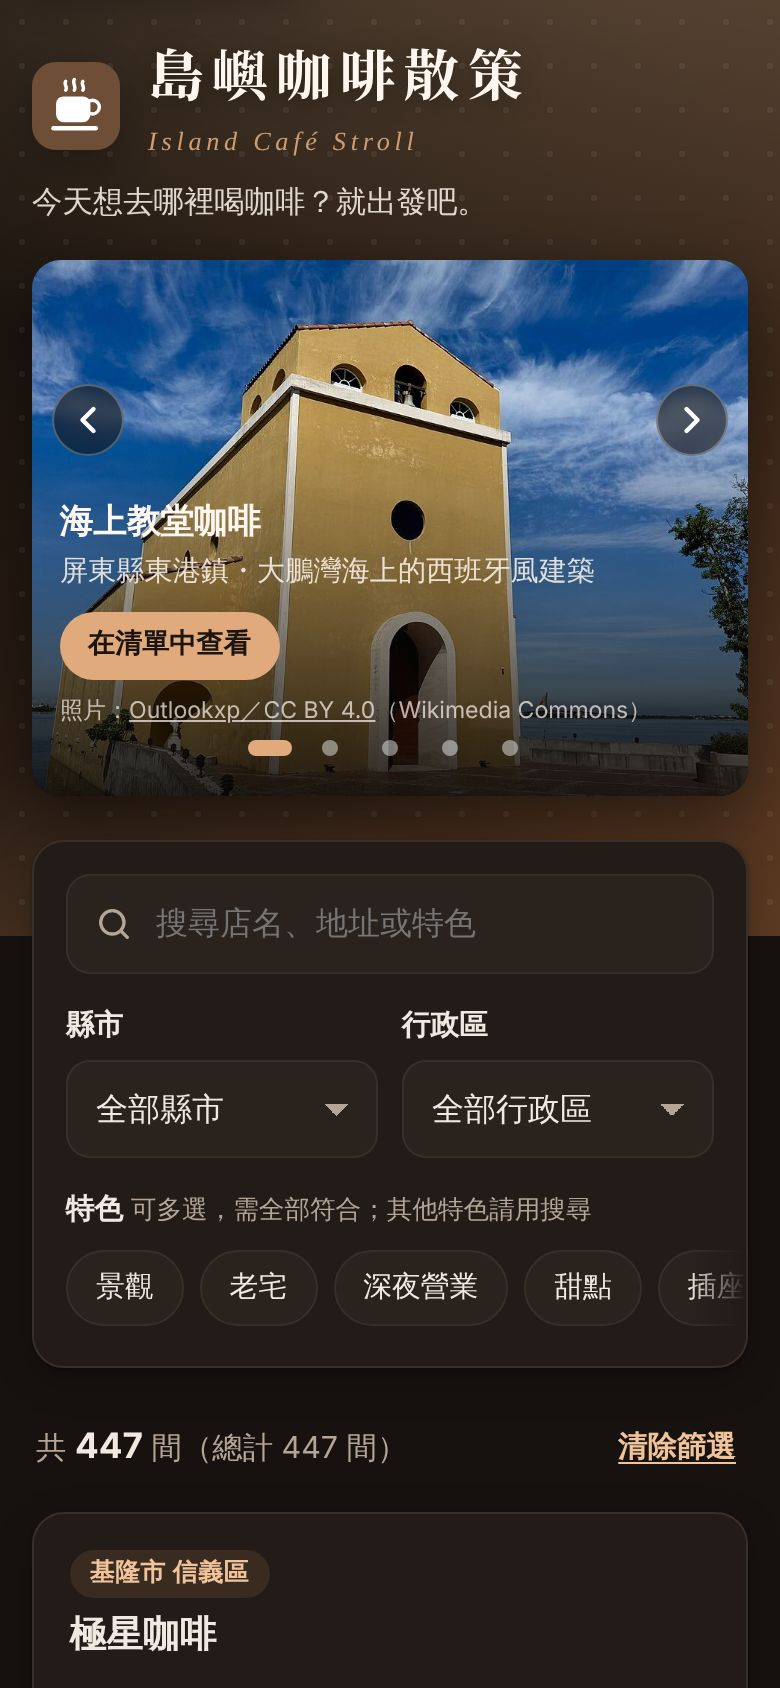
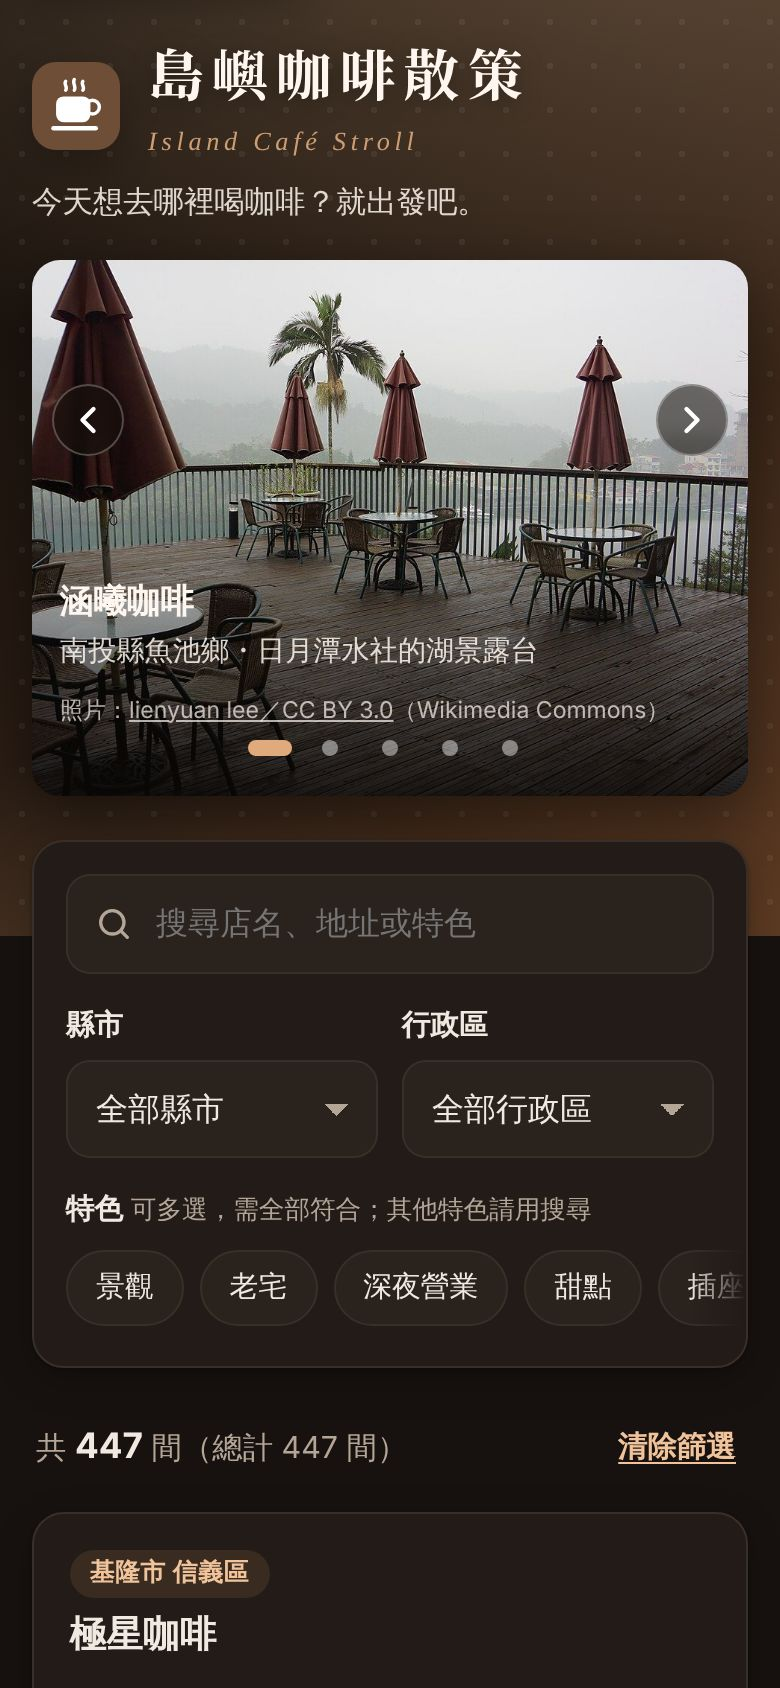
更換封面投影片的五張照片
Claude-Session: https://claude.ai/code/session_01LUVCkZAwZdgNwQd1aVRFf3

Changed region(s): [[0.0308, 0.154, 0.9846, 0.4929]]

diff --git a/slides.js b/slides.js
@@ -16,53 +16,53 @@
 //   source  Wikimedia Commons 原始檔案頁面
 window.SLIDES = [
   {
-    src: "images/slides/dapeng-maritime-cafe.jpg",
-    alt: "藍天白雲下，黃色外牆、拱形大門的海上教堂建築立在大鵬灣水邊",
-    name: "海上教堂咖啡",
-    place: "屏東縣東港鎮・大鵬灣海上的西班牙風建築",
-    find: "海上教堂咖啡",
-    author: "Outlookxp",
-    license: "CC BY 4.0",
-    source: "https://commons.wikimedia.org/wiki/File:%E5%A4%A7%E9%B5%AC%E7%81%A3%E6%B5%B7%E4%B8%8A%E6%95%99%E5%A0%82%E6%96%9C%E7%85%A7.jpg",
-  },
-  {
-    src: "images/slides/furen-cafe-nangan.jpg",
-    alt: "石牆老屋的庭院，擺滿盆栽與綠色植物，上方是深綠色遮陽傘",
-    name: "夫人咖啡館",
-    place: "連江縣南竿鄉・懸崖邊的百年石屋",
-    find: "夫人咖啡館",
+    src: "images/slides/hanxi-coffee-sun-moon-lake.jpg",
+    alt: "陰天山嵐中的木棧露台，擺著酒紅色陽傘與咖啡桌椅，欄杆外是遠山與湖畔",
+    name: "涵曦咖啡",
+    place: "南投縣魚池鄉・日月潭水社的湖景露台",
+    find: "",
     author: "lienyuan lee",
     license: "CC BY 3.0",
-    source: "https://commons.wikimedia.org/wiki/File:%E5%8D%97%E7%AB%BF%E5%A4%AB%E4%BA%BA%E5%92%96%E5%95%A1_Nangan_Furen_Cafe_-_panoramio.jpg",
+    source: "https://commons.wikimedia.org/wiki/File:%E6%B6%B5%E6%9B%A6%E5%92%96%E5%95%A1_Hanxi_Coffee_Room_-_panoramio.jpg",
   },
   {
-    src: "images/slides/kenting-12-cafe.jpg",
-    alt: "傍晚天空下的白色兩層樓建築，門前有寬闊階梯",
-    name: "Kenting 12 Music Restaurant & Espresso Café",
-    place: "屏東縣恆春鎮・墾丁",
-    find: "",
-    author: "JianEn Yu",
-    license: "CC BY 2.0",
-    source: "https://commons.wikimedia.org/wiki/File:Kenting_12_music_restaurant_and_Espresso_caf%C3%A9.jpg",
+    src: "images/slides/biluojiao-cherry-path.jpg",
+    alt: "山坡上的步道兩旁是盛開的粉紅色櫻花樹與松樹，遠處是霧中的山谷",
+    name: "碧絡角花園咖啡",
+    place: "苗栗縣南庄鄉・櫻花盛開的山間步道",
+    find: "碧絡角花園咖啡",
+    author: "lienyuan lee",
+    license: "CC BY 3.0",
+    source: "https://commons.wikimedia.org/wiki/File:%E7%A2%A7%E7%B5%A1%E8%A7%92_Biluojiao_-_panoramio_(2).jpg",
   },
   {
-    src: "images/slides/jinguashi-outdoor-cafe.jpg",
-    alt: "山嵐中的日式木造建築，前方廣場擺著戶外咖啡座",
-    name: "金瓜石山城的戶外咖啡座",
-    place: "新北市瑞芳區・金瓜石",
+    src: "images/slides/shanfurong-garden-cafe.jpg",
+    alt: "紅磚屋的黃色木窗門敞開，門前有花盆、綠色長椅與粉紅色繡球花",
+    name: "山芙蓉藝術庭園",
+    place: "苗栗縣・花草環繞的庭園咖啡",
     find: "",
-    author: "Fred Hsu",
+    author: "fullfen666",
+    license: "CC BY-SA 2.0",
+    source: "https://commons.wikimedia.org/wiki/File:%E3%80%90%E8%8B%97%E6%A0%97%E6%99%AF%E9%BB%9E%E3%80%91%E5%B1%B1%E8%8A%99%E8%93%89%E8%97%9D%E8%A1%93%E5%BA%AD%E5%9C%92_(31907438503).jpg",
+  },
+  {
+    src: "images/slides/wuling-maple-cafe-night.jpg",
+    alt: "夜晚的庭院，路燈照亮放射狀圖案的石板地，四周是樹木與陽傘",
+    name: "楓林小館 Maple Cafe",
+    place: "台中市和平區・武陵農場的夜晚庭院",
+    find: "",
+    author: "lienyuan lee",
+    license: "CC BY 3.0",
+    source: "https://commons.wikimedia.org/wiki/File:%E6%A5%93%E6%9E%97%E5%B0%8F%E9%A4%A8_Maple_Cafe_-_panoramio.jpg",
+  },
+  {
+    src: "images/slides/toucheng-castle-cafe-night.jpg",
+    alt: "夜色中燈光照亮的歐式石砌城堡建築，門前有樹木與點燈的入口",
+    name: "頭城城堡咖啡館",
+    place: "宜蘭縣頭城鎮・夜裡點燈的城堡",
+    find: "",
+    author: "陳文振",
     license: "CC BY-SA 3.0",
-    source: "https://commons.wikimedia.org/wiki/File:Taiwan_2009_JinGuaShi_Historic_Gold_Mine_Outdoor_Cafe_FRD_7494.jpg",
-  },
-  {
-    src: "images/slides/matsu-coffee-garden.jpg",
-    alt: "綠樹與灌木環繞的山林步道，旁邊有紅色欄杆和松庭咖啡園的木製招牌",
-    name: "松庭咖啡園",
-    place: "被樹林包圍的庭園咖啡",
-    find: "",
-    author: "lienyuan lee",
-    license: "CC BY 3.0",
-    source: "https://commons.wikimedia.org/wiki/File:Matsu_Coffee_%E6%9D%BE%E5%BA%AD%E5%92%96%E5%95%A1%E5%9C%92_-_panoramio.jpg",
+    source: "https://commons.wikimedia.org/wiki/File:%E9%A0%AD%E5%9F%8E%E5%9F%8E%E5%A0%A1%E5%92%96%E5%95%A1%E9%A4%A8%E5%A4%9C%E6%99%AF_-_panoramio.jpg",
   },
 ];

diff --git a/sw.js b/sw.js
@@ -6,7 +6,7 @@
 //
 // 版本號：修改下面 PRECACHE 裡的檔案或 index.html 的 ?v= 版本號時，
 // 請一起更新 VERSION，舊快取會在新版啟用時自動清除。
-const VERSION = "20261117-16";
+const VERSION = "20261117-17";
 const PREFIX = "taichung-cafe-";
 const CACHE = PREFIX + VERSION;
 // 先前「報修登記」版本留下的快取，一併清除
@@ -18,11 +18,11 @@ const PRECACHE = [
   "./style.css?v=" + VERSION,
   "./cafes.js?v=" + VERSION,
   "./slides.js?v=" + VERSION,
-  "./images/slides/dapeng-maritime-cafe.jpg",
-  "./images/slides/furen-cafe-nangan.jpg",
-  "./images/slides/kenting-12-cafe.jpg",
-  "./images/slides/jinguashi-outdoor-cafe.jpg",
-  "./images/slides/matsu-coffee-garden.jpg",
+  "./images/slides/hanxi-coffee-sun-moon-lake.jpg",
+  "./images/slides/biluojiao-cherry-path.jpg",
+  "./images/slides/shanfurong-garden-cafe.jpg",
+  "./images/slides/wuling-maple-cafe-night.jpg",
+  "./images/slides/toucheng-castle-cafe-night.jpg",
   "./app.js?v=" + VERSION,
   "./manifest.webmanifest",
   "./fonts/title-serif-700.woff2",

diff --git a/index.html b/index.html
@@ -20,7 +20,7 @@
        並同步更新 sw.js 的 VERSION，讓瀏覽器與離線快取都換成新版 -->
   <!-- 標題字體：只含「島嶼咖啡散策」六個字的 Noto Serif TC 子集（約 3 KB），先行載入避免閃爍 -->
   <link rel="preload" href="fonts/title-serif-700.woff2" as="font" type="font/woff2" crossorigin>
-  <link rel="stylesheet" href="style.css?v=20261117-16">
+  <link rel="stylesheet" href="style.css?v=20261117-17">
 </head>
 <body>
   <a class="skip-link" href="#cafe-list">跳到咖啡廳清單</a>
@@ -118,8 +118,8 @@
     <svg viewBox="0 0 24 24" aria-hidden="true"><path d="m6 14 6-6 6 6"/></svg>
   </button>
 
-  <script src="cafes.js?v=20261117-16"></script>
-  <script src="slides.js?v=20261117-16"></script>
-  <script src="app.js?v=20261117-16"></script>
+  <script src="cafes.js?v=20261117-17"></script>
+  <script src="slides.js?v=20261117-17"></script>
+  <script src="app.js?v=20261117-17"></script>
 </body>
 </html>
